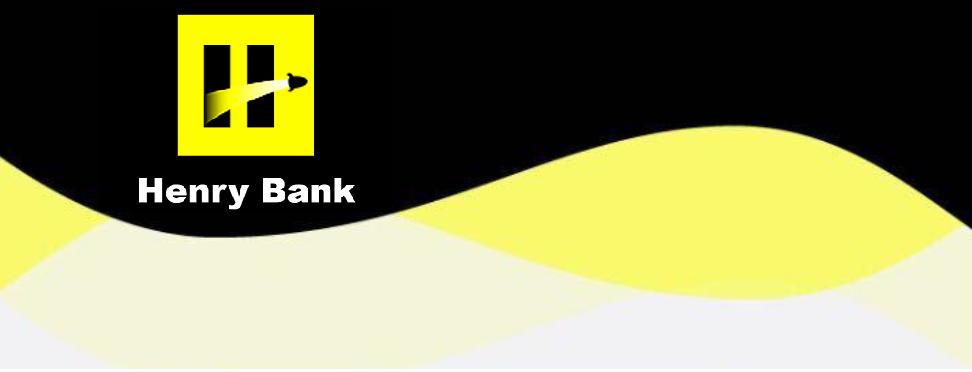
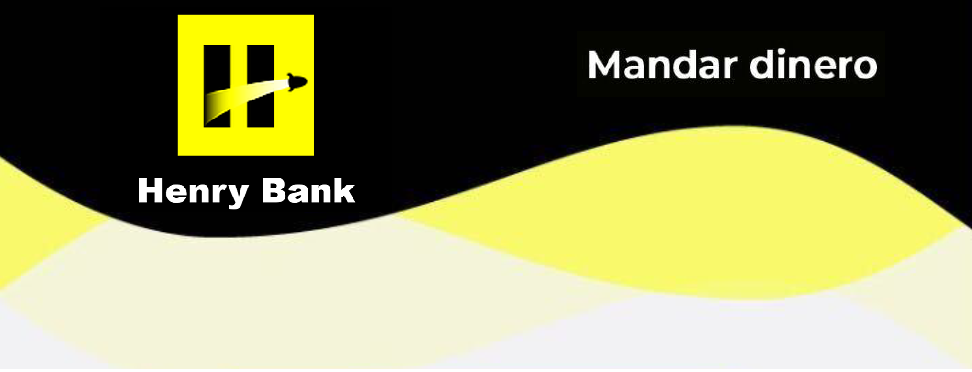
mandar dinero responsive

Changed region(s): [[0.5864, 0.1183, 0.9259, 0.2366]]

diff --git a/client/src/components/EnviarDinero/enviardinero.css b/client/src/components/EnviarDinero/enviardinero.css
@@ -1,104 +1,120 @@
-#enviardinero{
-  position: relative;
+#enviarcont{
   width: 100%;
-  height: 100vh;
-}
-#enviardinero #svg1{
-  position: absolute;
-  top: 0px;
-  z-index: 3;
-}
-#enviardinero #svg2{
-  transform: scaleX(-1);
-  position: absolute;
-  top: 5%;
-  z-index: 2;
-}
-#enviardinero #svg3{
-  position: absolute;
-  top: 13%;
-  z-index: 1;
-}
-#enviardinero #svg3 path{
-  fill: #fff45d7e;
-}
-#enviardinero .titulo{
   display: flex;
-  position: absolute;
-  top: 20px;
-  left: 20px;
-  z-index: 10;
+  flex-direction: column;
 }
-#enviardinero .titulo h1{
-  color: rgb(255, 255, 255);
-  margin-left: 35px;
-  margin-top: auto;
-  margin-bottom: auto;
-  font-weight: bold;
-  font-size: 50px;
-}
-#enviardinero .envia{
-  margin: 0px auto;
-  top: 20%;
-  padding: 30px 30px;
-  padding-bottom: 20px;
-  width: 40%;
-  max-width: 375px;
-  min-width: 300px;
-  height: 70%;
+#enviarcont .envia{
+  width: 80%;
   background-color: #fffdfdef;
   border: solid 1px #6b6b6b3f;
-  z-index: 5;
   text-align: center;
+  align-self: center;
 }
-#enviardinero .envia .destino{
+#enviarcont .envia .destino{
   margin-bottom: 0px !important;
 }
-#enviardinero .envia .destino button{
+#enviarcont .envia .destino button{
   background-color: #fffe00;
-  padding: 5px 7px;
   border-radius: 5px 0px 0px 5px;
 }
-#enviardinero .envia .destino button svg{
+#enviarcont .envia .destino button svg{
   fill: black;
 }
-#enviardinero .envia .destino input{
+#enviarcont .envia .destino input{
   height: 42px;
   margin: 0px;
 }
-#enviardinero .envia .total{
+#enviarcont .envia .total{
   height: 180px;
   display: flex;
   align-items: center;  
   justify-content: center;
 }
-#enviardinero .envia .total h1{
+#enviarcont .envia .total h1{
   font-size: 75px;
 }
-#enviardinero .envia .mensaje{
+#enviarcont .envia .mensaje{
   margin: 0px;
 }
-#enviardinero .envia .confirmar input{
+#enviarcont .envia .confirmar input{
   width: 17px;
   height: 17px;
 }
-#enviardinero .envia .confirmar label{
+#enviarcont .envia .confirmar label{
   line-height: 17px;
   text-align: justify;
   margin-left: 5px;
   color: #3b3b3b;
 }
-#enviardinero .send a{
+#enviarcont .send a{
   position: relative;
   color: black;
   font-weight: bold;
   background-color: #fffe00 !important;
-  margin-right: 0px;
-  top: 50px;
   box-shadow: 4px 4px 5px rgba(110, 110, 110, 0.575) !important;
 }
-#enviardinero .send a:hover {
+#enviarcont .send a:hover {
   box-shadow: none !important;
-}
+} 
 
-  
+/* Extra small devices (phones, 600px and down) */
+@media only screen and (max-width: 600px) {
+  #enviarcont{
+    width: 100%;
+    display: flex;
+    flex-direction: column;
+  }
+  #enviarcont .envia{
+    width: 80%;
+    background-color: #fffdfdef;
+    border: solid 1px #6b6b6b3f;
+    text-align: center;
+    align-self: center;
+  }
+  #enviarcont .envia .destino{
+    margin-bottom: 0px !important;
+  }
+  #enviarcont .envia .destino button{
+    background-color: #fffe00;
+    border-radius: 5px 0px 0px 5px;
+  }
+  #enviarcont .envia .destino button svg{
+    fill: black;
+  }
+  #enviarcont .envia .destino input{
+    height: 42px;
+    margin: 0px;
+  }
+  #enviarcont .envia .total{
+    height: 180px;
+    display: flex;
+    align-items: center;  
+    justify-content: center;
+  }
+  #enviarcont .envia .total h1{
+    font-size: 75px;
+  }
+  #enviarcont .envia .mensaje{
+    margin: 0px;
+  }
+  #enviarcont .envia .confirmar input{
+    width: 17px;
+    height: 17px;
+  }
+  #enviarcont .envia .confirmar label{
+    line-height: 17px;
+    text-align: justify;
+    margin-left: 5px;
+    color: #3b3b3b;
+  }
+  #enviarcont .send a{
+    position: relative;
+    color: black;
+    font-weight: bold;
+    background-color: #fffe00 !important;
+    box-shadow: 4px 4px 5px rgba(110, 110, 110, 0.575) !important;
+  }
+  #enviarcont .send a:hover {
+    box-shadow: none !important;
+  } 
+}

diff --git a/client/src/components/EnviarDinero/EnviarDinero.jsx b/client/src/components/EnviarDinero/EnviarDinero.jsx
@@ -5,6 +5,8 @@ import { FaUsers , FaUserPlus} from "react-icons/fa";
 import { connect } from 'react-redux';
 import { getProfile, enviarDinero, listaContactos } from "../../actions/UserActions";
 import SearchContact from "./searchContact.js";
+import Image from 'react-bootstrap/Image';
+import Container from 'react-bootstrap/Container';
 
 function RecargarDinero({ usuarioConectado, getProfile, enviarDinero, listContact, listaContactos }) {
 
@@ -27,19 +29,8 @@ function RecargarDinero({ usuarioConectado, getProfile, enviarDinero, listContac
  }
 
   return (  
-      <div id="enviardinero">  
-        <div className="titulo">
-          <h1>Enviar Dinero</h1>
-        </div>
-        <svg id="svg1" xmlns="http://www.w3.org/2000/svg" viewBox="0 0 1440 320">
-          <path fill="#000000" fill-opacity="1" d='M0,256L80,256C160,256,320,256,480,218.7C640,181,800,107,960,106.7C1120,107,1280,181,1360,218.7L1440,256L1440,0L1360,0C1280,0,1120,0,960,0C800,0,640,0,480,0C320,0,160,0,80,0L0,0Z'></path>
-        </svg>
-        <svg id="svg2" xmlns="http://www.w3.org/2000/svg" viewBox="0 0 1440 320">
-          <path fill="#fffe00" fill-opacity="1" d='M0,288L80,277.3C160,267,320,245,480,240C640,235,800,245,960,213.3C1120,181,1280,107,1360,69.3L1440,32L1440,0L1360,0C1280,0,1120,0,960,0C800,0,640,0,480,0C320,0,160,0,80,0L0,0Z'></path>
-        </svg>
-        <svg id="svg3" xmlns="http://www.w3.org/2000/svg" viewBox="0 0 1440 320">
-          <path fill="#ff0330" fill-opacity="1" d='M0,288L48,266.7C96,245,192,203,288,202.7C384,203,480,245,576,256C672,267,768,245,864,208C960,171,1056,117,1152,106.7C1248,96,1344,128,1392,144L1440,160L1440,0L1392,0C1344,0,1248,0,1152,0C1056,0,960,0,864,0C768,0,672,0,576,0C480,0,384,0,288,0C192,0,96,0,48,0L0,0Z'></path>
-        </svg>     
+      <Container id="enviarcont">  
+      <Image id="henrybankenviar" src="https://fotos.subefotos.com/64bf11a0a60617c000baae47b53883fbo.png " ></Image>
         <div className="form-group col-md-5 envia">
           <div class="input-group mb-3 destino">
             <div class="input-group-prepend">
@@ -84,7 +75,8 @@ function RecargarDinero({ usuarioConectado, getProfile, enviarDinero, listContac
             }
           </div>
         </div>
-    </div>
+        <Image id="footerenviar" src="https://fotos.subefotos.com/0d5c65b0be7d80bce6ee2187e71c9997o.png" ></Image>
+    </Container>
   )
 }
 

diff --git a/client/src/components/Usuario/Home.jsx b/client/src/components/Usuario/Home.jsx
@@ -1,8 +1,8 @@
 import React from "react";
 import "./CSS/home.css";
 import Container from 'react-bootstrap/Container';
-import Button from 'react-bootstrap/Button'
-import Image from 'react-bootstrap/Image'
+import Button from 'react-bootstrap/Button';
+import Image from 'react-bootstrap/Image';
 
 
 
